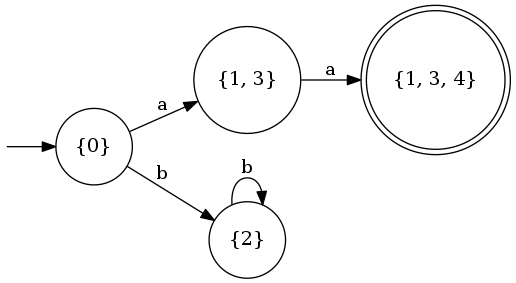
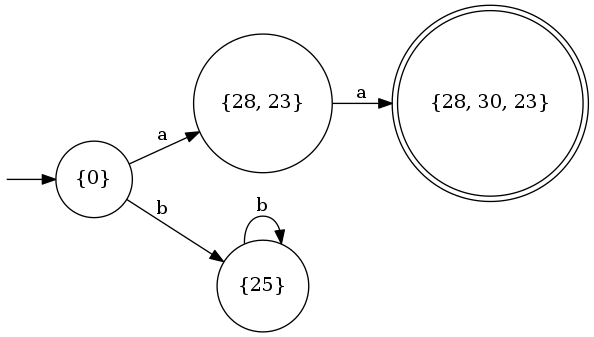
Implements a regex parser

Changed region(s): [[0.0, 0.0, 0.9922, 0.9894], [0.4341, 0.4523, 0.5271, 0.5088], [0.4031, 0.424, 0.4341, 0.4523]]

diff --git a/RegexParser.py b/RegexParser.py
@@ -1,0 +1,74 @@
+from RegexTree import *
+
+class RegexParser:
+    def __init__(self):
+        self.word = ""
+        self.position = 0
+        self.next = ""
+
+    def parse(self, word):
+        self.word = word + "$"
+        self.position = 0
+        self.next = self.word[0]
+
+        tree = self.parseOr()
+
+        if self.next != "$":
+            raise Exception()
+
+        return tree
+
+    def check(self, word):
+        try:
+            self.parse(word)
+        except:
+            return False
+        return True
+
+    def parseOr(self):
+        left = self.parseConcat()
+
+        while self.next == "|":
+            self.consume()
+            right = self.parseConcat()
+            left = Or(left, right)
+
+        return left
+
+    def parseConcat(self):
+        left = self.parseStar()
+
+        while self.next.isalnum() or self.next == "(":
+            right = self.parseStar()
+            left = Concat(left, right)
+
+        return left
+
+    def parseStar(self):
+        inner = self.parseTerm()
+
+        while self.next == "*":
+            self.consume()
+            inner = Star(inner)
+
+        return inner
+
+    def parseTerm(self):
+        if self.next == "(":
+            self.consume()
+            inner = self.parseOr()
+            if self.next == ")":
+                self.consume()
+            else:
+                raise Exception()
+            return inner
+        elif self.next.isalnum():
+            return self.consume()
+        else:
+            raise Exception()
+
+    def consume(self):
+        letter = Letter(self.next)
+        self.position += 1
+        self.next = self.word[self.position]
+        return letter

diff --git a/main.py b/main.py
@@ -1,8 +1,13 @@
 from RegexEvaluator import RegexEvaluator
-from RegexTree import *
+from RegexParser import RegexParser
 
-root = Concat(Star(Or(Letter('a'), Letter('b'))),
-              Concat(Letter('a'), Or(Letter('a'), Letter('b'))))
+parser = RegexParser()
+
+regexs = ["a*", "ab", "a||b", "(a|b)*asdb(a|b)"]
+for regex in regexs:
+    print(regex, parser.check(regex))
+
+root = parser.parse("(a|b)*a(a|b)")
 
 evaluator = RegexEvaluator(root)
 evaluator.draw_nfa()
